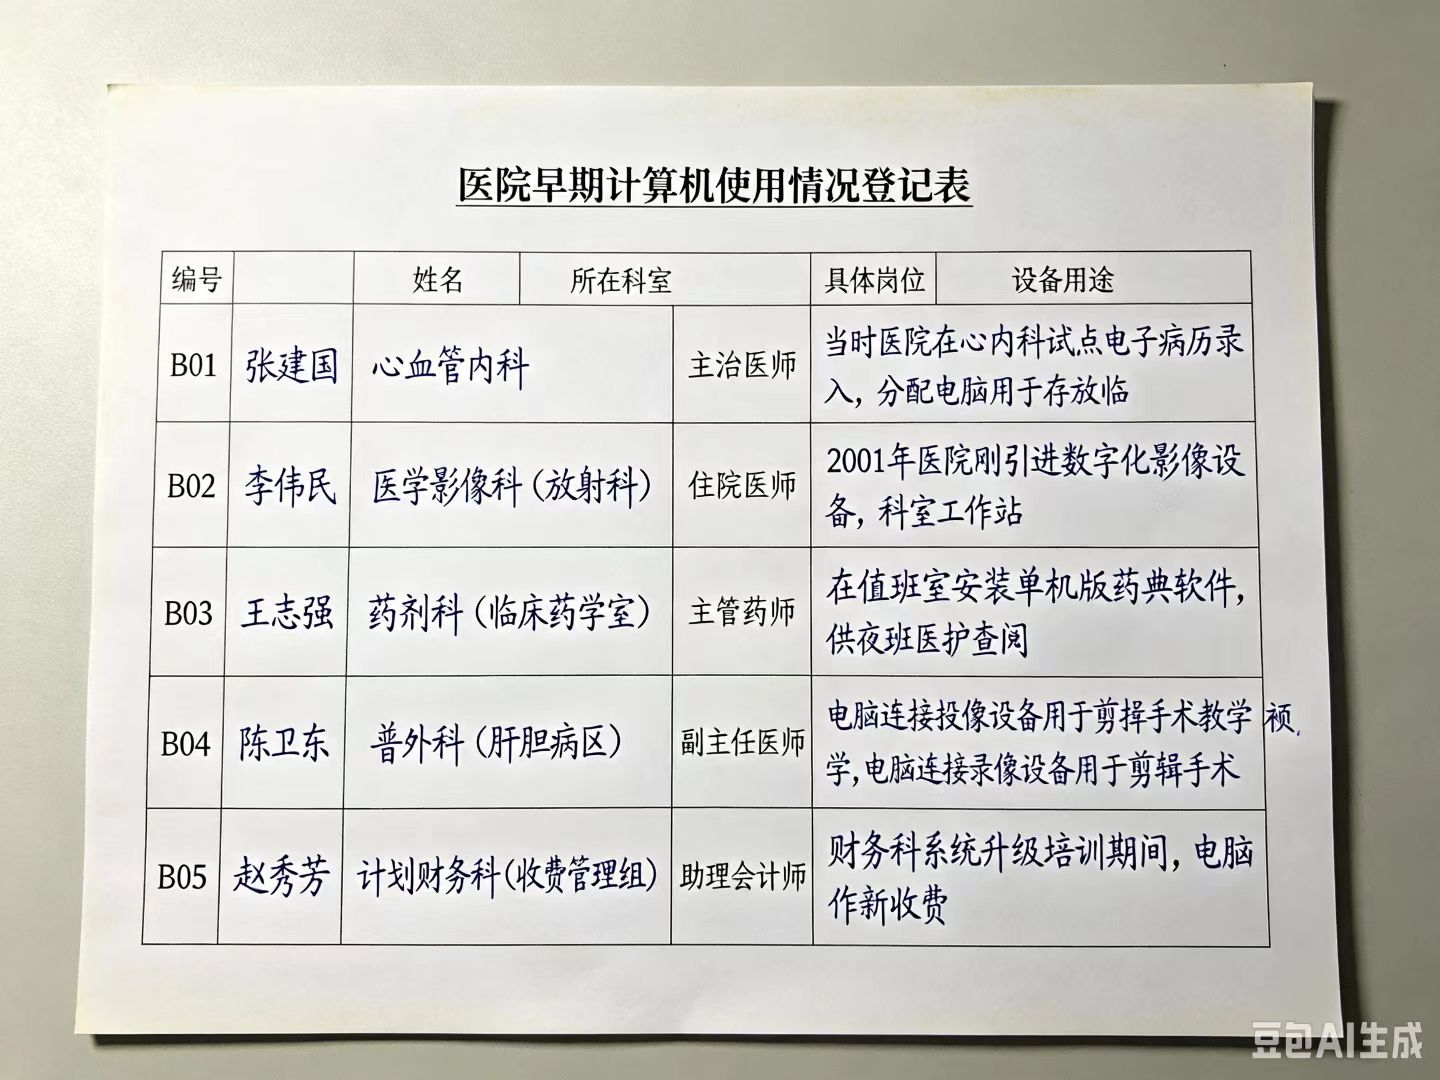
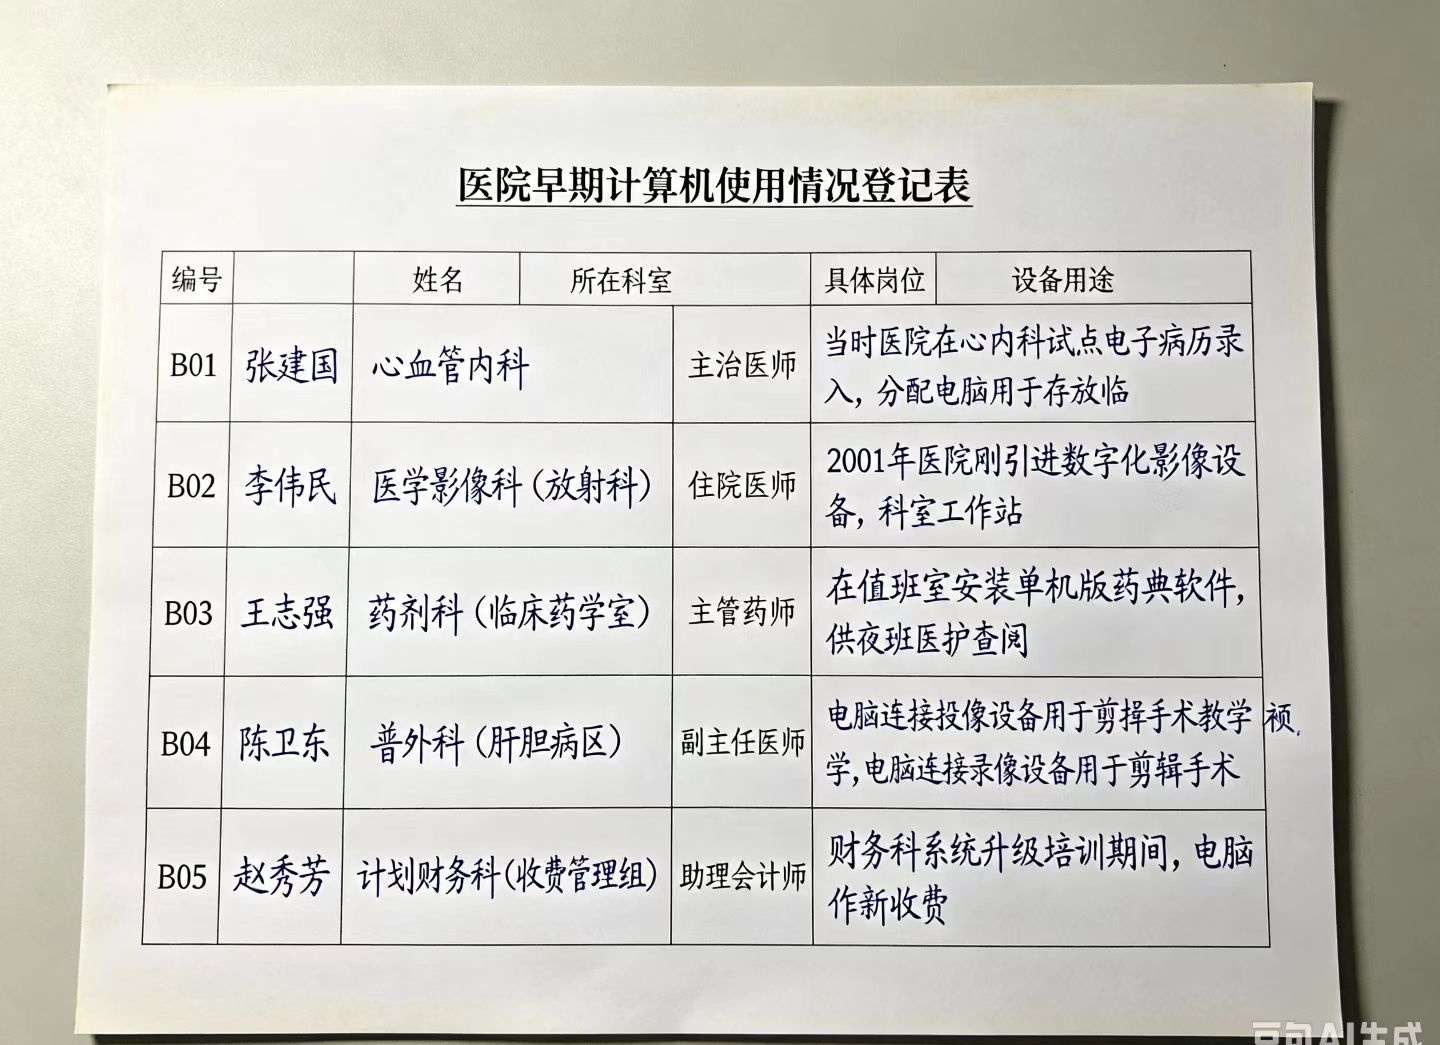
BO3图片移一二之间+裁切去水印

Changed region(s): [[0.0938, 0.1531, 0.9062, 0.9187], [0.0312, 0.9187, 1.0, 1.0], [0.9062, 0.0919, 0.9375, 0.1225]]

diff --git a/bo3.html b/bo3.html
@@ -123,6 +123,39 @@
     }
     .doc-h2:first-of-type { margin-top: 6px; }
     .doc-para { text-indent: 2em; margin-bottom: 10px; }
+    /* 正文内嵌图（放在段落之间） */
+    .doc-figure {
+        margin: 26px auto 28px;
+        text-align: center;
+        background: linear-gradient(135deg, #f6f9fc, #eef4f9);
+        border: 1px solid var(--border);
+        border-radius: 10px;
+        padding: 20px 22px 16px;
+        max-width: 98%;
+    }
+    .doc-figure img {
+        width: auto;
+        max-width: 100%;
+        max-height: 520px;
+        object-fit: contain;
+        display: block;
+        margin: 0 auto;
+        border-radius: 6px;
+        box-shadow: 0 10px 30px rgba(0,0,0,0.14);
+        background: #000;
+    }
+    .doc-figure .fig-cap {
+        display: inline-block;
+        margin-top: 14px;
+        padding: 4px 16px;
+        font-size: 13px;
+        color: var(--sub);
+        letter-spacing: 0.6px;
+        line-height: 1.8;
+        background: #fff;
+        border: 1px dashed rgba(41,128,185,0.35);
+        border-radius: 20px;
+    }
     .doc-sign {
         margin-top: 30px; padding-top: 18px; border-top: 1px dashed rgba(0,0,0,0.14);
         display: flex; justify-content: space-between; align-items: flex-end;
@@ -250,12 +283,6 @@
 
             <!-- 主栏 -->
             <main class="main" id="top">
-                <!-- 首屏大图：用户要求图片展示的地方，放 BO3.jpg -->
-                <div class="hero-image" id="hero">
-                    <img src="BO3.jpg" alt="2001年前后基础设施升级 相关历史影像资料">
-                    <span class="hero-caption">▲ 历史影像资料（归档编号 GK-2001-007）</span>
-                </div>
-
                 <div class="doc-body">
                     <div class="doc-code-row">档案编号：GK-2001-007 &nbsp;|&nbsp; BO3</div>
                     <h2 class="doc-title">公 开 信 息 答 复</h2>
@@ -268,6 +295,12 @@
                     <p class="doc-para">
                         为避免国有资产闲置浪费，并考虑到当时部分临床科室确有信息化办公的基础需求，经院领导班子集体研究决定，将此次设备更新中替换下来的一批旧电脑及配套设备，无偿调配给当时部分在职的医技人员个人使用，用于支持其业务学习及科室办公辅助。
                     </p>
+
+                    <!-- BO3 图片：一和二之间（用户要求），内嵌正文图，id=hero 锚点保留供侧栏跳转 -->
+                    <div class="doc-figure" id="hero">
+                        <img src="BO3.jpg" alt="2001年前后基础设施升级 相关历史影像资料">
+                        <div class="fig-cap">▲ 历史影像资料（归档编号 GK-2001-007）</div>
+                    </div>
 
                     <h3 class="doc-h2" id="s2">二、后续处理说明</h3>
                     <p class="doc-para">
